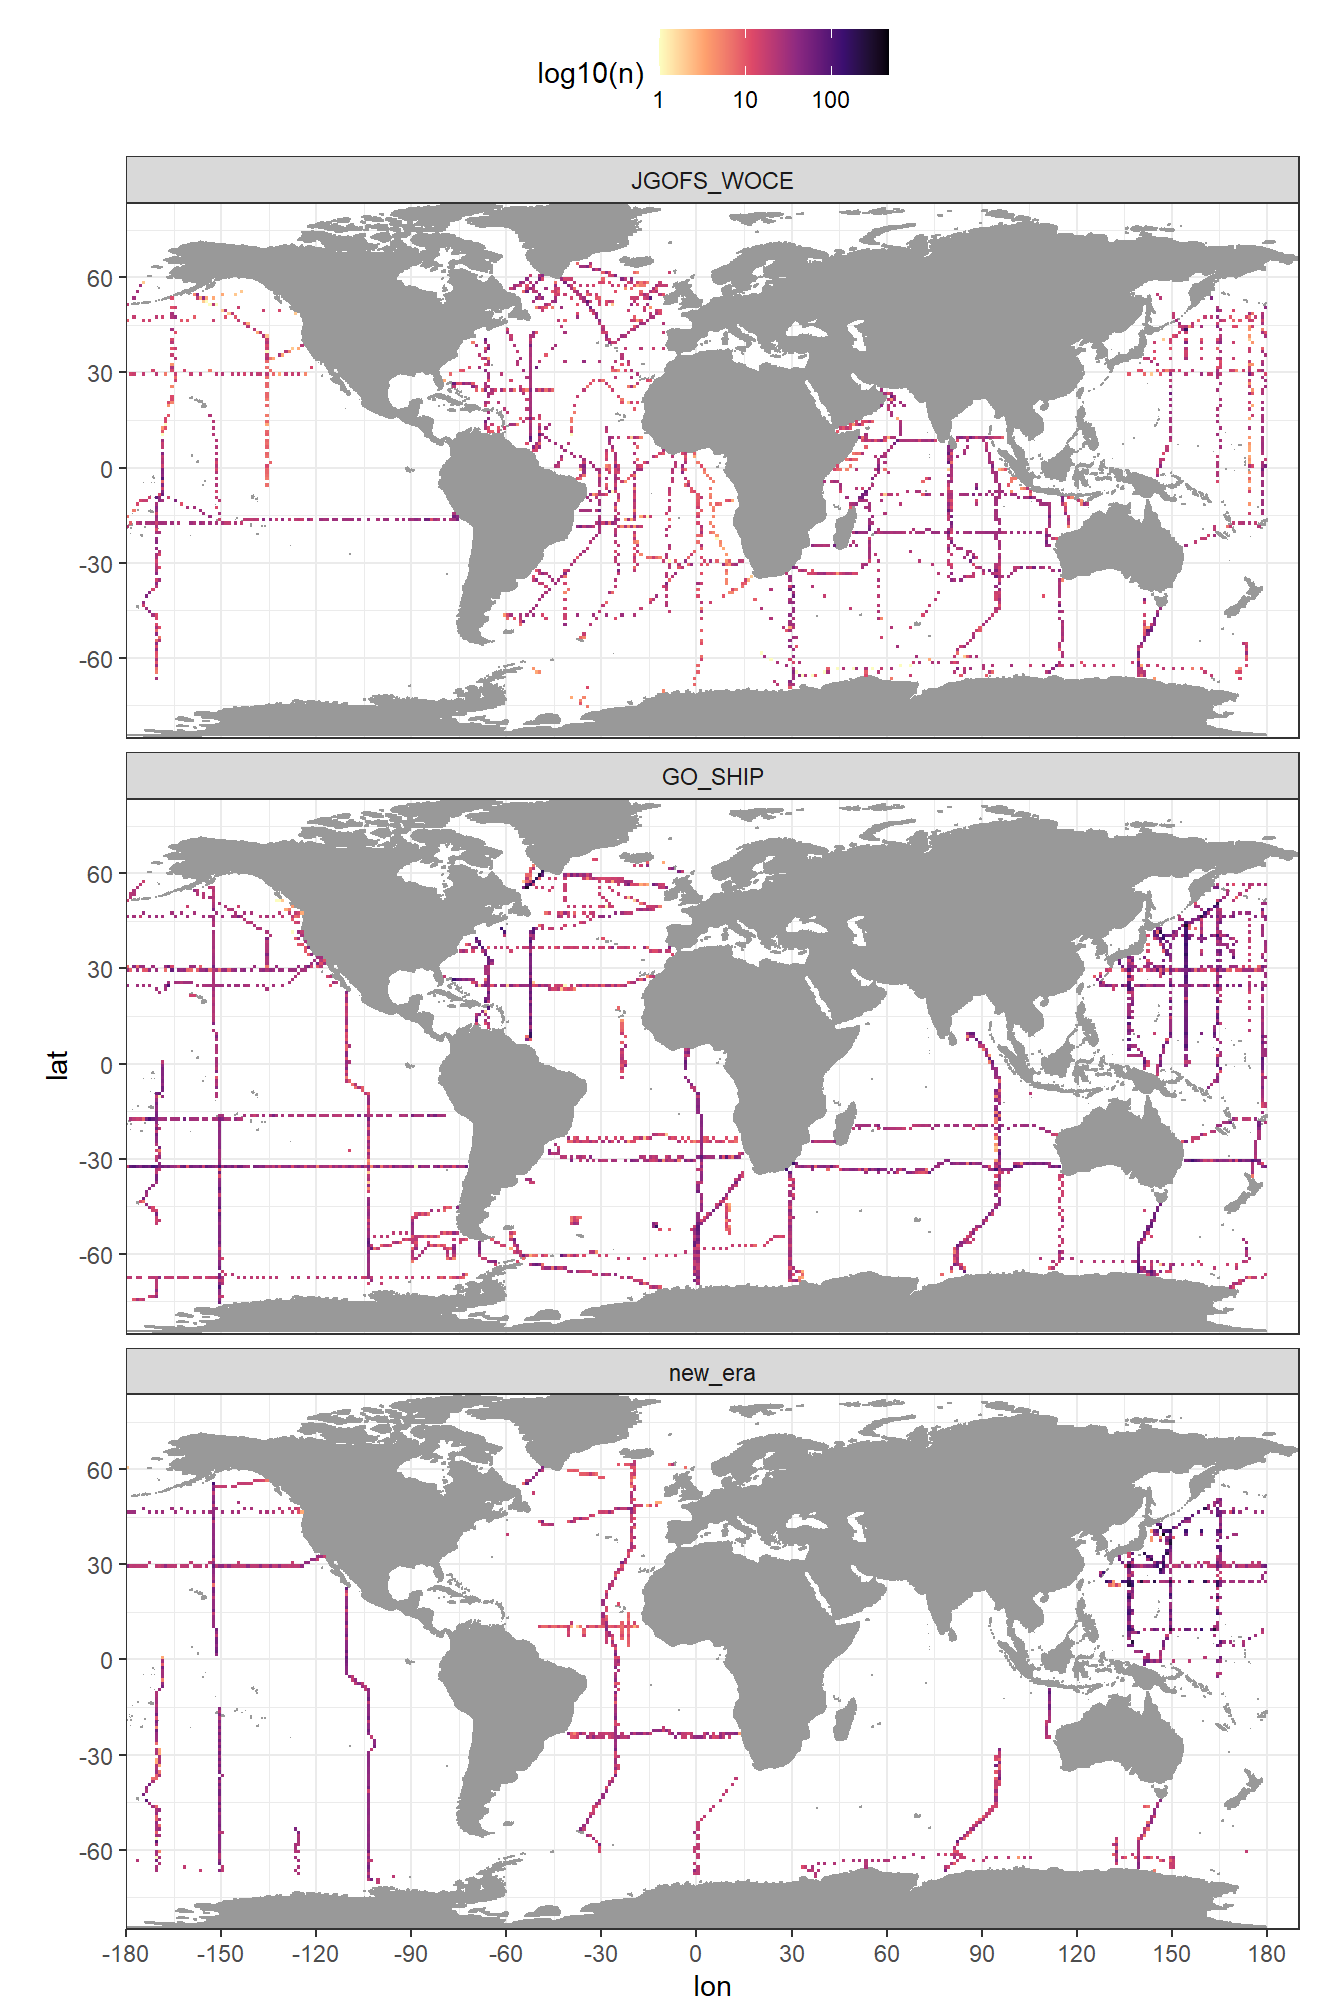
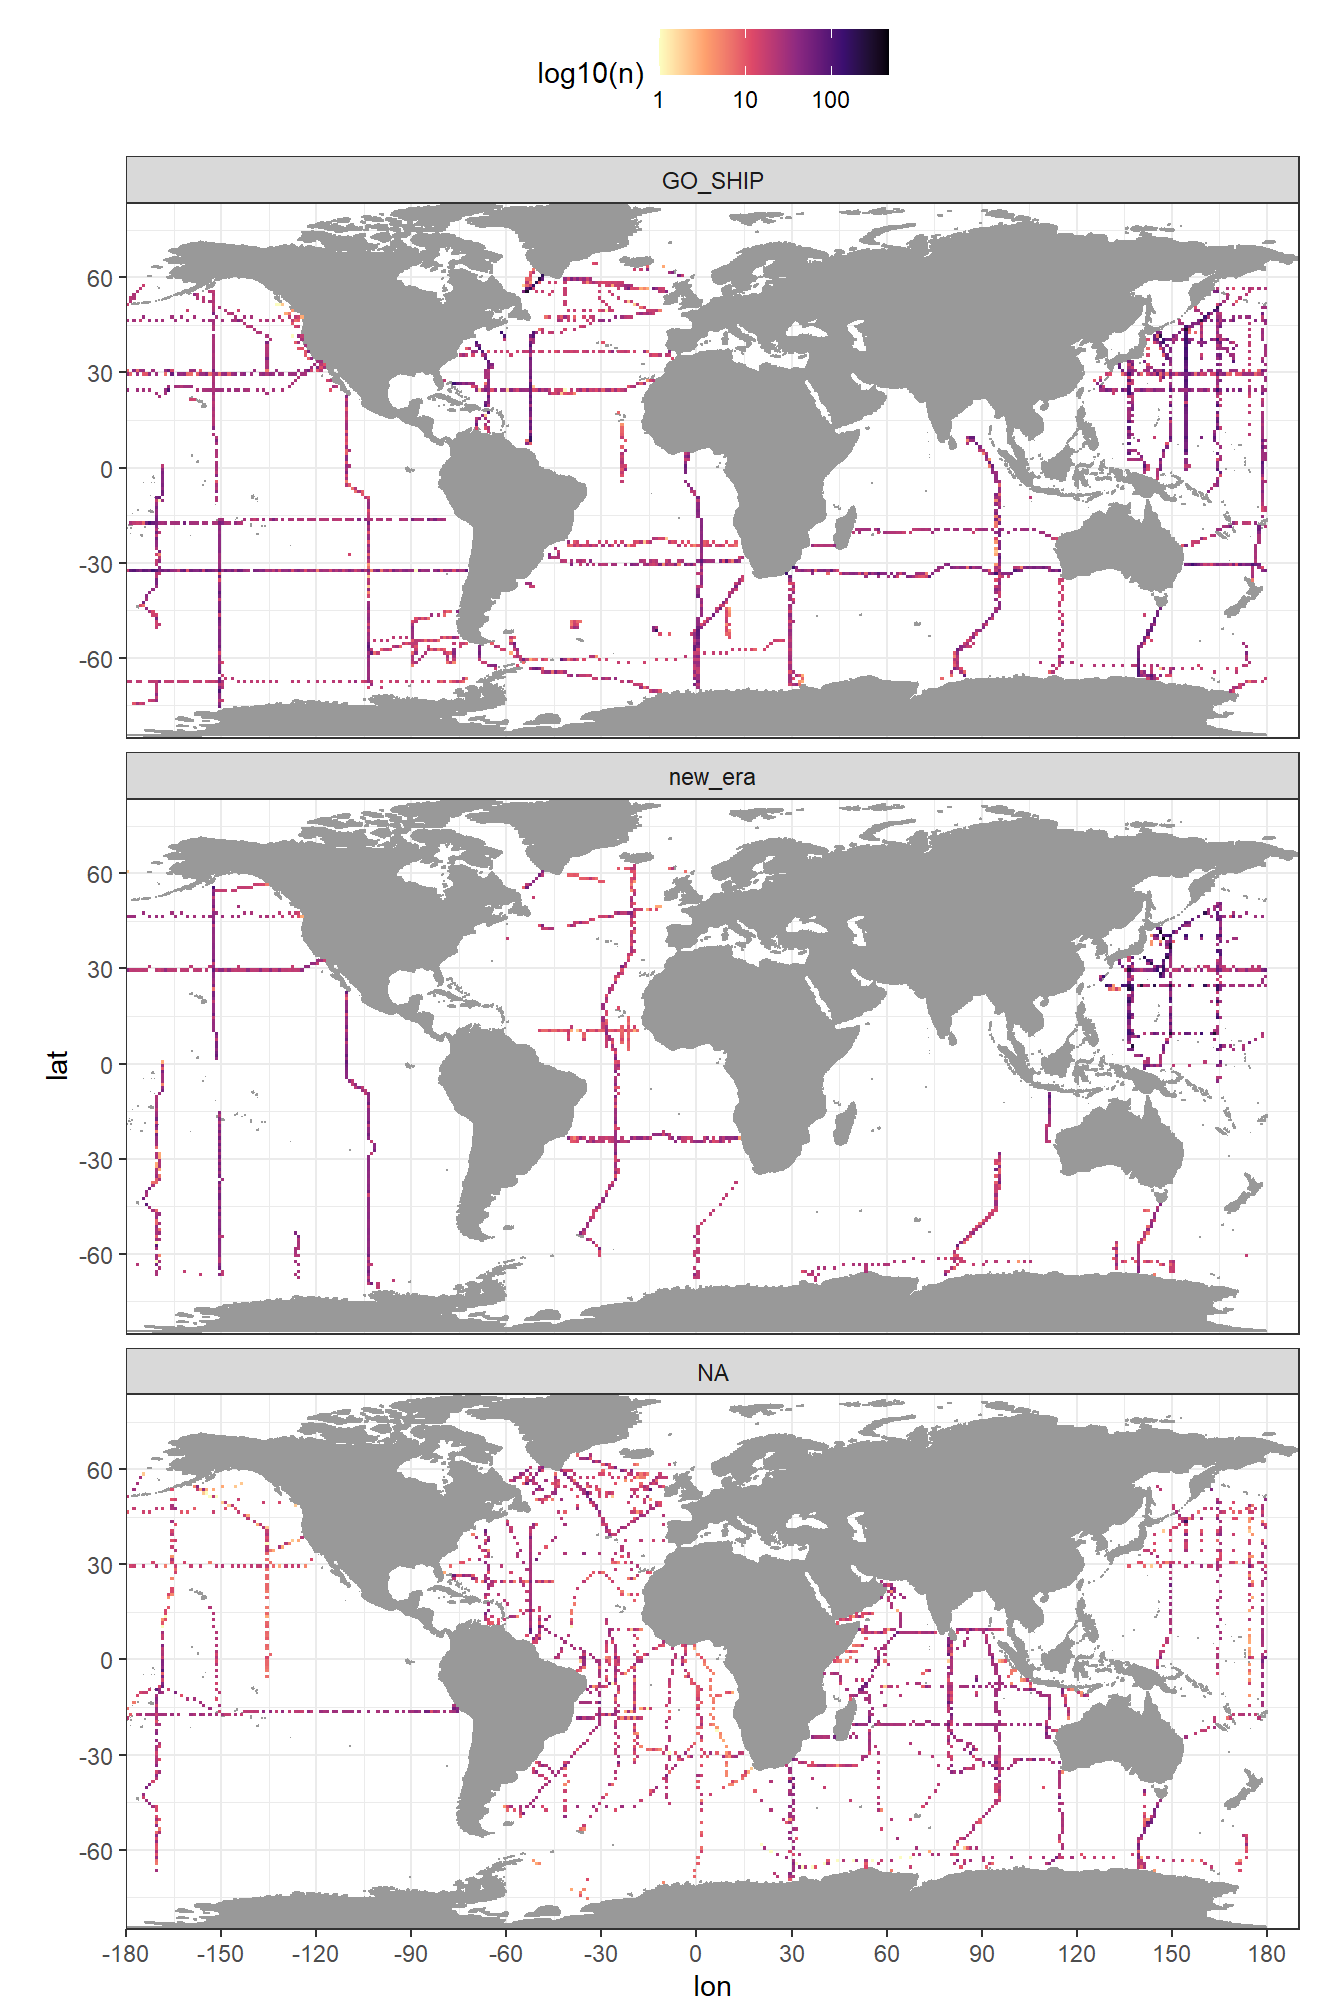
Build site.

diff --git a/docs/read_GLODAPv2_2020.html b/docs/read_GLODAPv2_2020.html
@@ -439,7 +439,7 @@ div.tocify {
 
 <h1 class="title toc-ignore">GLODAPv2_2020</h1>
 <h4 class="author">Jens Daniel Müller</h4>
-<h4 class="date">10 August, 2020</h4>
+<h4 class="date">11 August, 2020</h4>
 
 </div>
 
@@ -464,7 +464,7 @@ div.tocify {
 <div class="tab-content">
 <div id="summary" class="tab-pane fade in active">
 <p>
-<strong>Last updated:</strong> 2020-08-10
+<strong>Last updated:</strong> 2020-08-11
 </p>
 <p>
 <strong>Checks:</strong> <span class="glyphicon glyphicon-ok text-success" aria-hidden="true"></span> 7 <span class="glyphicon glyphicon-exclamation-sign text-danger" aria-hidden="true"></span> 0
@@ -555,16 +555,16 @@ This reproducible <a href="http://rmarkdown.rstudio.com">R Markdown</a> analysis
 <div class="panel panel-default">
 <div class="panel-heading">
 <p class="panel-title">
-<a data-toggle="collapse" data-parent="#workflowr-checks" href="#strongRepositoryversionstrongahrefhttpsgithubcomjensdanielmuellerCanteMLRtreed202c61f72271c2ce3dd13c7dfd98de24189c480targetblankd202c61a"> <span class="glyphicon glyphicon-ok text-success" aria-hidden="true"></span> <strong>Repository version:</strong> <a href="https://github.com/jens-daniel-mueller/Cant_eMLR/tree/d202c61f72271c2ce3dd13c7dfd98de24189c480" target="_blank">d202c61</a> </a>
+<a data-toggle="collapse" data-parent="#workflowr-checks" href="#strongRepositoryversionstrongahrefhttpsgithubcomjensdanielmuellerCanteMLRtreee646f85c46869f94e3eb1e4d13a303a2f4df4c29targetblanke646f85a"> <span class="glyphicon glyphicon-ok text-success" aria-hidden="true"></span> <strong>Repository version:</strong> <a href="https://github.com/jens-daniel-mueller/Cant_eMLR/tree/e646f85c46869f94e3eb1e4d13a303a2f4df4c29" target="_blank">e646f85</a> </a>
 </p>
 </div>
[2 lines of base64/hex data omitted]
 <div class="panel-body">
 <p>
 Great! You are using Git for version control. Tracking code development and connecting the code version to the results is critical for reproducibility.
 </p>
 <p>
-The results in this page were generated with repository version <a href="https://github.com/jens-daniel-mueller/Cant_eMLR/tree/d202c61f72271c2ce3dd13c7dfd98de24189c480" target="_blank">d202c61</a>. See the <em>Past versions</em> tab to see a history of the changes made to the R Markdown and HTML files.
+The results in this page were generated with repository version <a href="https://github.com/jens-daniel-mueller/Cant_eMLR/tree/e646f85c46869f94e3eb1e4d13a303a2f4df4c29" target="_blank">e646f85</a>. See the <em>Past versions</em> tab to see a history of the changes made to the R Markdown and HTML files.
 </p>
 <p>
 Note that you need to be careful to ensure that all relevant files for the analysis have been committed to Git prior to generating the results (you can use <code>wflow_publish</code> or <code>wflow_git_commit</code>). workflowr only checks the R Markdown file, but you know if there are other scripts or data files that it depends on. Below is the status of the Git repository when the results were generated:
@@ -581,14 +581,13 @@ Ignored files:
     Ignored:    data/dclement/
     Ignored:    data/eMLR/
     Ignored:    data/pCO2_atmosphere/
+    Ignored:    data/parameters/
     Ignored:    dump/
 
 Untracked files:
+    Untracked:  analysis/parameterization.Rmd
     Untracked:  analysis/python_scripts/
     Untracked:  analysis/test_scripts/
-
-Unstaged changes:
-    Modified:   analysis/_site.yml
 
 </code></pre>
 <p>
@@ -627,6 +626,40 @@ Message
 </tr>
 </thead>
 <tbody>
+<tr>
+<td>
+Rmd
+</td>
+<td>
+<a href="https://github.com/jens-daniel-mueller/Cant_eMLR/blob/e646f85c46869f94e3eb1e4d13a303a2f4df4c29/analysis/read_GLODAPv2_2020.Rmd" target="_blank">e646f85</a>
+</td>
+<td>
+jens-daniel-mueller
+</td>
+<td>
+2020-08-11
+</td>
+<td>
+parameterization in separate file
+</td>
+</tr>
+<tr>
+<td>
+html
+</td>
+<td>
+<a href="https://rawcdn.githack.com/jens-daniel-mueller/Cant_eMLR/e18e59ae91049e4ce3633220680aadc3b3586d84/docs/read_GLODAPv2_2020.html" target="_blank">e18e59a</a>
+</td>
+<td>
+jens-daniel-mueller
+</td>
+<td>
+2020-08-10
+</td>
+<td>
+Build site.
+</td>
+</tr>
 <tr>
 <td>
 html
@@ -1543,17 +1576,18 @@ GLODAP &lt;- GLODAP %&gt;%
             maxsampdepth, pressure,
             theta, sigma0:sigma4,
             nitrite:nitritef))</code></pre>
+<p>Read parameterization</p>
+<pre class="r"><code>parameters &lt;- read_csv(here::here(&quot;data/parameters&quot;,
+                                  &quot;parameters.csv&quot;))</code></pre>
 </div>
 <div id="data-preparation" class="section level1">
 <h1><span class="header-section-number">2</span> Data preparation</h1>
 <div id="flags-and-missing-data" class="section level2">
 <h2><span class="header-section-number">2.1</span> Flags and missing data</h2>
-<pre class="r"><code>flag_f &lt;- 2
-flag_qc &lt;- 1</code></pre>
 <p>Only rows (samples) for which all relevant parameters are available were selected. In additions, following flagging criteria were applied:</p>
 <ul>
-<li>flag f: 2</li>
-<li>flag qc: 1</li>
+<li>flag_f: 2</li>
+<li>flag_qc: 1</li>
 </ul>
 <p>Summary statistics were calculated during cleaning process.</p>
 <pre class="r"><code>GLODAP_stats &lt;- GLODAP %&gt;% 
@@ -1565,11 +1599,11 @@ GLODAP &lt;- GLODAP %&gt;%
   filter(!is.na(tco2))
 
 GLODAP &lt;- GLODAP %&gt;% 
-  filter(tco2f == flag_f) %&gt;% 
+  filter(tco2f == parameters$flag_f) %&gt;% 
   select(-tco2f)
 
 GLODAP &lt;- GLODAP %&gt;% 
-  filter(tco2qc == flag_qc) %&gt;% 
+  filter(tco2qc == parameters$flag_qc) %&gt;% 
   select(-tco2qc)
 
 GLODAP_stats_temp &lt;- GLODAP %&gt;% 
@@ -1584,11 +1618,11 @@ GLODAP &lt;- GLODAP %&gt;%
   filter(!is.na(talk))
 
 GLODAP &lt;- GLODAP %&gt;% 
-  filter(talkf == flag_f) %&gt;% 
+  filter(talkf == parameters$flag_f) %&gt;% 
   select(-talkf)
 
 GLODAP &lt;- GLODAP %&gt;% 
-  filter(talkqc == flag_qc) %&gt;% 
+  filter(talkqc == parameters$flag_qc) %&gt;% 
   select(-talkqc)
 
 ##
@@ -1597,11 +1631,11 @@ GLODAP &lt;- GLODAP %&gt;%
   filter(!is.na(phosphate))
 
 GLODAP &lt;- GLODAP %&gt;% 
-  filter(phosphatef == flag_f) %&gt;% 
+  filter(phosphatef == parameters$flag_f) %&gt;% 
   select(-phosphatef)
 
 GLODAP &lt;- GLODAP %&gt;% 
-  filter(phosphateqc == flag_qc) %&gt;% 
+  filter(phosphateqc == parameters$flag_qc) %&gt;% 
   select(-phosphateqc)
 
 GLODAP_stats_temp &lt;- GLODAP %&gt;% 
@@ -1621,11 +1655,11 @@ GLODAP &lt;- GLODAP %&gt;%
   filter(!is.na(salinity))
 
 GLODAP &lt;- GLODAP %&gt;% 
-  filter(salinityf == flag_f) %&gt;% 
+  filter(salinityf == parameters$flag_f) %&gt;% 
   select(-salinityf)
 
 GLODAP &lt;- GLODAP %&gt;% 
-  filter(salinityqc == flag_qc) %&gt;% 
+  filter(salinityqc == parameters$flag_qc) %&gt;% 
   select(-salinityqc)
 
 ##
@@ -1634,11 +1668,11 @@ GLODAP &lt;- GLODAP %&gt;%
   filter(!is.na(silicate))
 
 GLODAP &lt;- GLODAP %&gt;% 
-  filter(silicatef == flag_f) %&gt;% 
+  filter(silicatef == parameters$flag_f) %&gt;% 
   select(-silicatef)
 
 GLODAP &lt;- GLODAP %&gt;% 
-  filter(silicateqc == flag_qc) %&gt;% 
+  filter(silicateqc == parameters$flag_qc) %&gt;% 
   select(-silicateqc)
 
 ##
@@ -1647,11 +1681,11 @@ GLODAP &lt;- GLODAP %&gt;%
   filter(!is.na(oxygen))
 
 GLODAP &lt;- GLODAP %&gt;% 
-  filter(oxygenf == flag_f) %&gt;% 
+  filter(oxygenf == parameters$flag_f) %&gt;% 
   select(-oxygenf)
 
 GLODAP &lt;- GLODAP %&gt;% 
-  filter(oxygenqc == flag_qc) %&gt;% 
+  filter(oxygenqc == parameters$flag_qc) %&gt;% 
   select(-oxygenqc)
 
 ##
@@ -1660,7 +1694,7 @@ GLODAP &lt;- GLODAP %&gt;%
   filter(!is.na(aou))
 
 GLODAP &lt;- GLODAP %&gt;% 
-  filter(aouf == flag_f) %&gt;% 
+  filter(aouf == parameters$flag_f) %&gt;% 
   select(-aouf)
 
 ##
@@ -1669,11 +1703,11 @@ GLODAP &lt;- GLODAP %&gt;%
   filter(!is.na(nitrate))
 
 GLODAP &lt;- GLODAP %&gt;% 
-  filter(nitratef == flag_f) %&gt;% 
+  filter(nitratef == parameters$flag_f) %&gt;% 
   select(-nitratef)
 
 GLODAP &lt;- GLODAP %&gt;% 
-  filter(nitrateqc == flag_qc) %&gt;% 
+  filter(nitrateqc == parameters$flag_qc) %&gt;% 
   select(-nitrateqc)
 
 ##
@@ -1691,14 +1725,10 @@ GLODAP_stats_temp &lt;- GLODAP %&gt;%
 
 GLODAP_stats &lt;- cbind(GLODAP_stats, GLODAP_stats_temp)
 
-rm(GLODAP_stats_temp)
-rm(flag_f, flag_qc)</code></pre>
+rm(GLODAP_stats_temp)</code></pre>
 </div>
 <div id="spatial-boundaries" class="section level2">
 <h2><span class="header-section-number">2.2</span> Spatial boundaries</h2>
-<pre class="r"><code>min_depth &lt;- 150
-min_bottomdepth &lt;- 500
-max_lat &lt;- 65</code></pre>
 <p>Only observations were taken into consideration with:</p>
 <ul>
 <li>minimum sampling depth: 150m</li>
@@ -1706,7 +1736,7 @@ max_lat &lt;- 65</code></pre>
 <li>maximum latitude: 65°N</li>
 </ul>
 <pre class="r"><code>GLODAP &lt;- GLODAP %&gt;% 
-  filter(depth &gt;= min_depth)
+  filter(depth &gt;= parameters$depth_min)
 
 GLODAP_stats_temp &lt;- GLODAP %&gt;% 
   summarise(eMLR_variables_150m = n())
@@ -1717,10 +1747,10 @@ rm(GLODAP_stats_temp)
 ##
 
 GLODAP &lt;- GLODAP %&gt;% 
-  filter(latitude &lt;= max_lat)
+  filter(latitude &lt;= parameters$lat_max)
 
 GLODAP &lt;- GLODAP %&gt;% 
-  filter(bottomdepth &gt;= min_bottomdepth)
+  filter(bottomdepth &gt;= parameters$bottomdepth_min)
 
 GLODAP_stats_temp &lt;- GLODAP %&gt;% 
   summarise(eMLR_variables_150m_65N_500m = n())
@@ -1730,30 +1760,28 @@ rm(GLODAP_stats_temp)
 
 
 GLODAP_stats_long &lt;- GLODAP_stats %&gt;% 
-  pivot_longer(1:length(GLODAP_stats), names_to = &quot;parameter&quot;, values_to = &quot;n&quot;)
+  pivot_longer(1:length(GLODAP_stats),
+               names_to = &quot;parameter&quot;,
+               values_to = &quot;n&quot;)
 
 GLODAP_stats_long  %&gt;%  write_csv(here::here(&quot;data/GLODAPv2_2020/_summarized_data_files&quot;,
                                              &quot;GLODAPv2.2020_stats.csv&quot;))
 
-rm(GLODAP_stats_long, GLODAP_stats)
-rm(min_depth, max_lat, min_bottomdepth)</code></pre>
+rm(GLODAP_stats_long, GLODAP_stats)</code></pre>
 </div>
 <div id="reference-eras" class="section level2">
 <h2><span class="header-section-number">2.3</span> Reference eras</h2>
-<pre class="r"><code>start &lt;- 1981
-JGOFS &lt;- 1999
-GOSHIP &lt;- 2012</code></pre>
 <p>Samples were assigned to following eras:</p>
 <ul>
-<li>JGOFS-WOCE: 1981 - 1999</li>
-<li>GO-SHIP: 2000 - 2012</li>
-<li>new-era: &gt; 2013</li>
+<li><p>JGOFS_WOCE: 1981 - 1999</p></li>
+<li><p>GO_SHIP: 2000 - 2012</p></li>
+<li><p>new_era: &gt; 2013</p></li>
 </ul>
 <pre class="r"><code>GLODAP &lt;- GLODAP %&gt;%
-  filter(year &gt;= start) %&gt;% 
+  filter(year &gt;= parameters$year_JGOFS_start) %&gt;% 
   mutate(era = &quot;JGOFS_WOCE&quot;,
-         era = if_else(year &gt; JGOFS, &quot;GO_SHIP&quot;, era),
-         era = if_else(year &gt; GOSHIP, &quot;new_era&quot;, era))</code></pre>
+         era = if_else(year &gt; parameters$year_JGOFS_end, &quot;GO_SHIP&quot;, era),
+         era = if_else(year &gt; parameters$year_GOSHIP_end, &quot;new_era&quot;, era))</code></pre>
 </div>
 <div id="horizontal-gridding" class="section level2">
 <h2><span class="header-section-number">2.4</span> Horizontal gridding</h2>
@@ -1878,7 +1906,7 @@ era_median_year &lt;- GLODAP %&gt;%
 
 GLODAP_histogram_year %&gt;% 
   ggplot() +
-  geom_vline(xintercept = c(JGOFS + 0.5, GOSHIP + 0.5)) +
+  geom_vline(xintercept = c(parameters$year_JGOFS_end + 0.5, parameters$year_GOSHIP_end + 0.5)) +
   geom_col(aes(year, n, fill = basin)) +
   geom_point(data = era_median_year, aes(t_ref,0, shape = &quot;Median year&quot;), size = 2, fill = &quot;white&quot;) +
   scale_fill_brewer(palette = &quot;Dark2&quot;) +
@@ -1913,7 +1941,7 @@ GLODAP_hovmoeller_year %&gt;%
 <pre class="r"><code>mapWorld &lt;- borders(&quot;world&quot;, colour = &quot;gray60&quot;, fill = &quot;gray60&quot;)
 
 GLODAP &lt;- GLODAP %&gt;% 
-  mutate(era = factor(era, c(&quot;JGOFS_WOCE&quot;, &quot;GO_SHIP&quot;, &quot;new_era&quot;)))
+  mutate(era = factor(era, c(&quot;parameters$year_JGOFS_end_WOCE&quot;, &quot;GO_SHIP&quot;, &quot;new_era&quot;)))
 
 GLODAP %&gt;%
   ggplot(aes(lon, lat)) +
